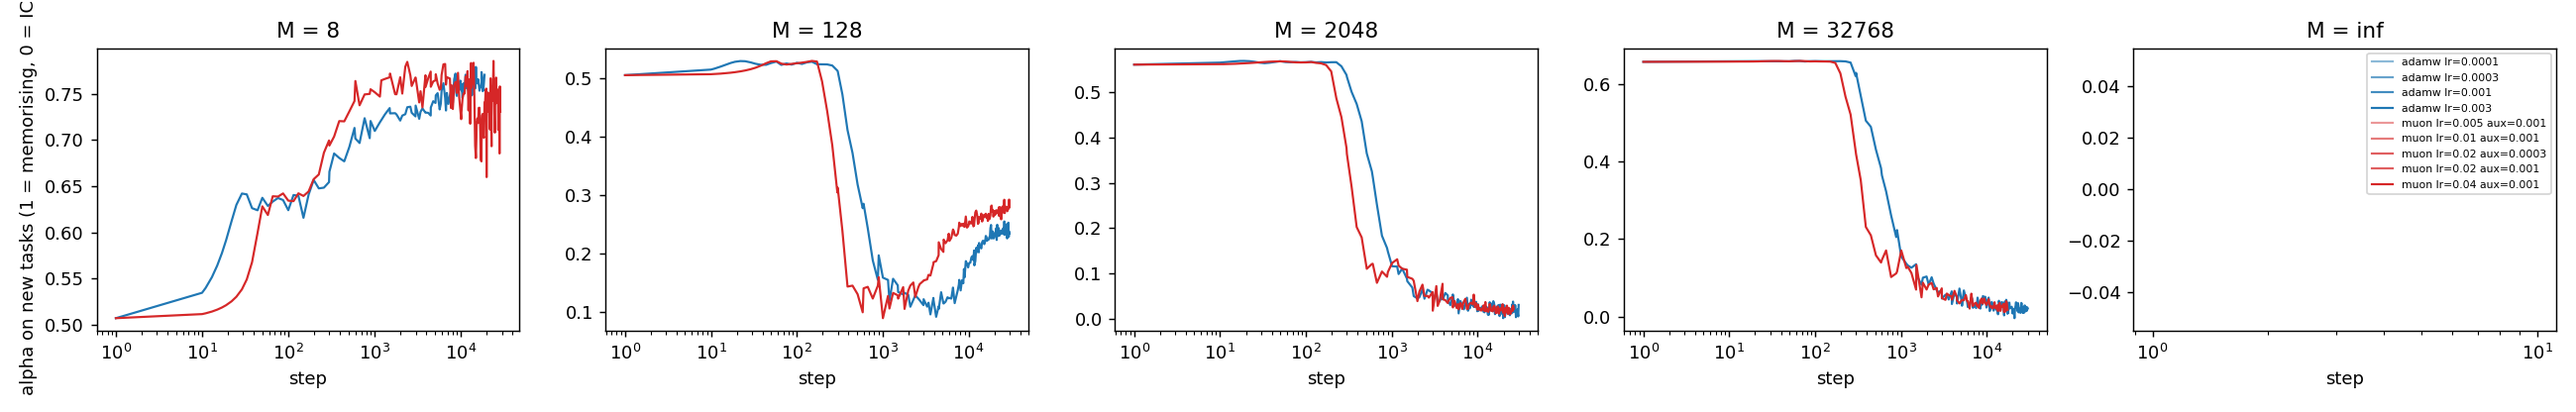
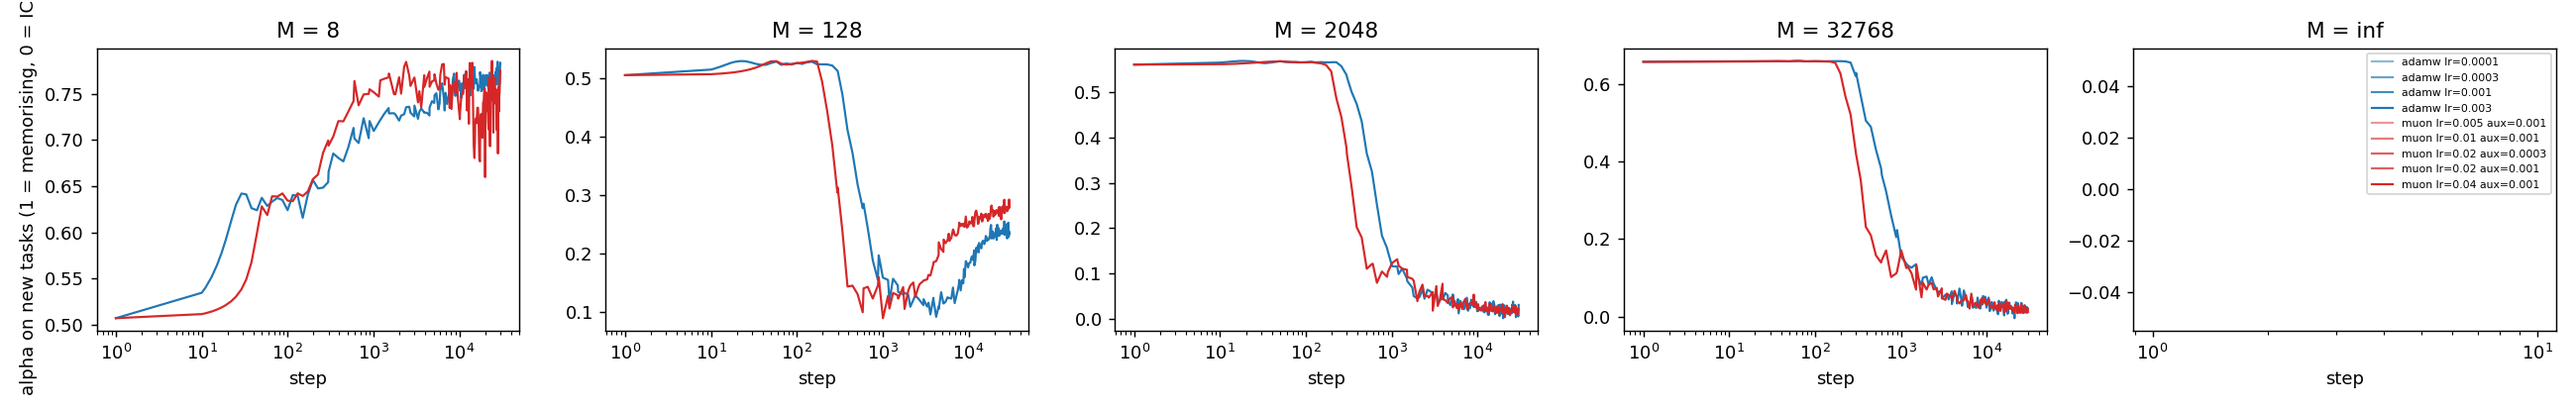
Run 1 results and write-up; Run 2 launched (pool-size sweep, 6 seeds)

diff --git a/analyze.py b/analyze.py
@@ -45,14 +45,22 @@ def onset_step(r):
     return int(s[hit[0]]) if len(hit) else None
 
 
+def fade(r):
+    """Best new-task error over training, the step it happened, and final / best (1.0 = no fading)."""
+    s, y = series(r, "mse_ood_last")
+    i = int(np.argmin(y))
+    return y[i], int(s[i]), float(np.mean(y[-5:]) / y[i])
+
+
 def label(c):
     m = "inf" if c["M"] == 0 else f"2^{int(math.log2(c['M']))}" if c["M"] & (c["M"] - 1) == 0 else str(c["M"])
     return f"{c['opt']} lr={c['lr']:g}" + ("" if c["aux_lr"] == c["lr"] else f" aux={c['aux_lr']:g}") + f" M={m} seed={c['seed']}"
 
 
 def table(runs):
-    hdr = "| run | status | min | new-task err (rel) | pool-task err (rel to dMMSE) | alpha new | alpha pool | ICL onset step |"
-    out = [hdr, "|" + "---|" * 8]
+    hdr = ("| run | status | min | new-task err (rel) | pool-task err (rel to dMMSE) | alpha new | alpha pool "
+           "| ICL onset step | best new-task err @ step | fade (final/best) |")
+    out = [hdr, "|" + "---|" * 10]
     for r in sorted(runs, key=lambda r: (r["cfg"]["M"] or 1 << 40, r["cfg"]["opt"], r["cfg"]["lr"])):
         last, b = r["rows"][-1], r["base"]
         st = "running" if r["done"] is None else r["done"]["status"]
@@ -61,7 +69,8 @@ def table(runs):
         rel_id = last["mse_id_last"] / b["dmmse_id_mse_pos"][-1]
         on = onset_step(r)
         out.append(f"| {label(r['cfg'])} | {st} @{last['step']} | {mins} | {last['mse_ood_last']:.3f} ({rel_ood:.2f}x) | "
-                   f"{last['mse_id_last']:.3f} ({rel_id:.2f}x) | {last['alpha_ood']:.2f} | {last['alpha_id']:.2f} | {on if on is not None else 'never'} |")
+                   f"{last['mse_id_last']:.3f} ({rel_id:.2f}x) | {last['alpha_ood']:.2f} | {last['alpha_id']:.2f} | {on if on is not None else 'never'} | "
+                   f"{fade(r)[0]:.3f} @ {fade(r)[1]} | {fade(r)[2]:.2f} |")
     return "\n".join(out)
 
 

diff --git a/LOG.md b/LOG.md
@@ -20,13 +20,40 @@ How to read the numbers:
 
 | | |
 |---|---|
-| Stage | Run 1 (calibration) running on Shirokane CPU nodes since 2026-11-03 10:20 PT, results expected about 11:45 PT |
-| Known so far | Code runs end to end with all four optimizers (local smoke test, not a result) |
-| Next decision | Learning rates and training length for the main sweep |
+| Stage | Run 2 (main pool-size sweep, 240 runs) running since 2026-11-03 12:33 PT; seeds 0-3 expected about 16:30 PT, seeds 4-5 after |
+| Known so far | Run 1, one seed: both optimizers reach the same quality on new tasks once tuned. At pool size 128 ICL appears and then fades in both, and Muon goes through both phases about 4x sooner. |
+| Next decision | Whether that early-rise, early-fade pattern holds across seeds and learning rates (Run 2) |
 
 ---
 
-## Run 1: calibration (started 2026-11-03 10:20 PT)
+## Run 2: main pool-size sweep (started 2026-11-03 12:33 PT)
+
+**What:** 240 runs of 30,000 steps on Shirokane CPU nodes: pool sizes M = 16, 32, 64, 128, 256,
+512, 1024, 2048, 4096 and inf; 6 seeds; two learning rates per optimizer, AdamW at 1e-4 and 3e-4
+and Muon at 0.005 and 0.01. These are the best two of each from Run 1. The non-matrix
+parameters use AdamW at 3e-4 in every run, so the only thing that changes is how the attention
+and MLP matrices are trained. Seed s gives both optimizers the same pool, starting weights and
+batches, so every comparison is paired.
+
+**What the results will look like:**
+- A curve of alpha (memorising vs regressing) against pool size for each optimizer, with error
+  bars over seeds. The pool size where it crosses 0.5 is M*, the task-diversity threshold.
+- A stats table: for each pool size, the Muon-minus-AdamW difference in new-task error,
+  pool-task error, onset step and fade, with a 95% interval and a paired p-value. The seed is
+  the independent unit, so 6 seeds (4 in the first batch, 2 more queued behind them) give a
+  smallest possible p of 0.031.
+- Mechanism figures: effective rank of each weight change, and how much attention goes to
+  the y values, over training.
+
+**What would count as a finding:** the same sign of difference in every seed at both learning
+rates, for at least one of: M*, onset step, or fade. If Run 1's pattern is real, Muon should
+peak and fade earlier at M = 64 to 256, and the error-vs-M curves should cross.
+
+**Result:** pending.
+
+---
+
+## Run 1: calibration (2026-11-03, 10:20-12:30 PT)
 
 **What:** 17 training runs of 30,000 steps each, seed 0, run side by side on Shirokane CPU nodes
 (every H100 on the cluster was taken; a CPU node does one run in about an hour).
@@ -45,4 +72,47 @@ M = 8 both should memorise (pool-task error near dMMSE, alpha near 1, poor on ne
 M = 32768 both should do ICL. The interesting cells are 128 and 2048. Seed 0 alone cannot show
 a significant difference; this run only sets up the main sweep.
 
-**Result:** pending.
+**Result:** all 17 runs finished. Full table: `reports/run01_table.md`. Figures: `reports/figs/run01/`.
+
+Learning rates, with a fresh task in every prompt (M = inf):
+
+| Optimizer | Learning rate | New-task error at 15 examples (x ridge) | Onset step |
+|---|---|---|---|
+| AdamW | 1e-4 | 0.581 (1.08x) | 880 |
+| AdamW | 3e-4 | 0.591 (1.09x) | 586 |
+| AdamW | 1e-3 | 0.637 (1.18x) | 511 |
+| AdamW | 3e-3 | did not learn | never |
+| Muon | 0.005 | 0.579 (1.07x) | 446 |
+| Muon | 0.01 | 0.580 (1.07x) | 340 |
+| Muon | 0.02 | 0.593 (1.10x) | 297 |
+| Muon | 0.04 | 0.658 (1.22x) | 226 |
+
+Pool-size scan (AdamW 1e-3, Muon 0.02; neither is its best rate):
+
+| M | AdamW new-task error | Muon new-task error | Best new-task error, AdamW / Muon (step) | Fade (final / best), AdamW / Muon |
+|---|---|---|---|---|
+| 8 | 8.77 (memorises; pool error 1.06x dMMSE) | 10.53 (pool error 1.71x dMMSE, unstable) | no ICL | no ICL |
+| 128 | 1.80 | 2.38 | 0.93 (7,200) / 1.01 (1,800) | 1.99 / 2.29 |
+| 2048 | 0.603 | 0.624 | still improving | none |
+| 32768 | 0.604 | 0.603 | still improving | none |
+
+**What it means:**
+1. Tuned, the two optimizers end up equally good at in-context regression: about 1.07x the
+   optimal error after 30,000 steps. So any difference is in *how* they get there and *when*
+   they switch between memorising and regressing, not in what they can eventually reach.
+2. Muon starts doing ICL sooner at every learning rate we can compare. This depends heavily on
+   learning rate, though: AdamW at 1e-3 starts sooner than Muon at 0.005. The fair comparison is
+   between tuned settings, and Run 2 does that across seeds.
+3. **Transient ICL appeared on its own at M = 128.** Both models first learn to regress from the
+   prompt (new-task error drops to about 1.0), then slowly swap that for memorising the 128
+   tasks: new-task error doubles while pool-task error keeps falling. This is the
+   rise-then-fade the proposal asked about (Singh et al. 2023). Muon reached its ICL peak about
+   4x sooner (step 1,800 vs 7,200) and had faded further by the end. That is one seed at
+   untuned learning rates, but if it holds it answers the proposal's question 2.
+4. At M = 8, Muon at 0.02 did not settle: its pool error kept spiking. That learning rate is
+   too high when there are few tasks, which is another reason Run 2 uses lower ones.
+5. With 2,048 or more tasks, both do ICL and look the same at this training length. So the
+   threshold M* is between 128 and 2,048 here. Run 2 fills that range in with powers of two.
+
+**Deviation:** the job ran on CPU nodes instead of the planned H100 because every H100 was busy.
+Every run in a given comparison uses the same hardware.

diff --git a/reports/run01_table.md b/reports/run01_table.md
@@ -1,0 +1,19 @@
+| run | status | min | new-task err (rel) | pool-task err (rel to dMMSE) | alpha new | alpha pool | ICL onset step | best new-task err @ step | fade (final/best) |
+|---|---|---|---|---|---|---|---|---|---|
+| adamw lr=0.001 M=2^3 seed=0 | ok @30000 | 131 | 8.771 (15.88x) | 0.270 (1.06x) | 0.78 | 0.97 | never | 7.528 @ 1515 | 1.10 |
+| muon lr=0.02 aux=0.001 M=2^3 seed=0 | ok @30000 | 90 | 10.533 (19.07x) | 0.437 (1.71x) | 0.78 | 0.91 | never | 7.901 @ 600 | 1.35 |
+| adamw lr=0.001 M=2^7 seed=0 | ok @30000 | 61 | 1.798 (3.26x) | 0.376 (1.48x) | 0.23 | 0.44 | 446 | 0.925 @ 7200 | 1.99 |
+| muon lr=0.02 aux=0.001 M=2^7 seed=0 | ok @30000 | 66 | 2.381 (4.31x) | 0.334 (1.31x) | 0.28 | 0.48 | 297 | 1.012 @ 1800 | 2.29 |
+| adamw lr=0.001 M=2^11 seed=0 | ok @30000 | 57 | 0.603 (1.09x) | 0.634 (2.49x) | 0.03 | 0.01 | 511 | 0.589 @ 29100 | 1.02 |
+| muon lr=0.02 aux=0.001 M=2^11 seed=0 | ok @30000 | 101 | 0.624 (1.13x) | 0.641 (2.51x) | 0.02 | 0.01 | 297 | 0.609 @ 23400 | 1.02 |
+| adamw lr=0.001 M=2^15 seed=0 | ok @30000 | 61 | 0.604 (1.09x) | 0.622 (2.34x) | 0.02 | -0.00 | 446 | 0.588 @ 19800 | 1.01 |
+| muon lr=0.02 aux=0.001 M=2^15 seed=0 | ok @30000 | 140 | 0.603 (1.09x) | 0.622 (2.34x) | 0.01 | 0.00 | 297 | 0.599 @ 29100 | 1.02 |
+| adamw lr=0.0001 M=inf seed=0 | ok @30000 | 58 | 0.581 (1.08x) | 0.576 (1.10x) | nan | nan | 880 | 0.574 @ 23700 | 1.02 |
+| adamw lr=0.0003 M=inf seed=0 | ok @30000 | 56 | 0.591 (1.09x) | 0.566 (1.08x) | nan | nan | 586 | 0.582 @ 28200 | 1.02 |
+| adamw lr=0.001 M=inf seed=0 | ok @30000 | 125 | 0.637 (1.18x) | 0.644 (1.23x) | nan | nan | 511 | 0.624 @ 29100 | 1.02 |
+| adamw lr=0.003 M=inf seed=0 | ok @30000 | 96 | 7.799 (14.43x) | 8.176 (15.56x) | nan | nan | never | 7.710 @ 600 | 1.01 |
+| muon lr=0.005 aux=0.001 M=inf seed=0 | ok @30000 | 64 | 0.579 (1.07x) | 0.559 (1.06x) | nan | nan | 446 | 0.563 @ 23700 | 1.03 |
+| muon lr=0.01 aux=0.001 M=inf seed=0 | ok @30000 | 100 | 0.580 (1.07x) | 0.566 (1.08x) | nan | nan | 340 | 0.568 @ 23700 | 1.03 |
+| muon lr=0.02 aux=0.0003 M=inf seed=0 | ok @30000 | 107 | 0.630 (1.17x) | 0.608 (1.16x) | nan | nan | 297 | 0.608 @ 26400 | 1.04 |
+| muon lr=0.02 aux=0.001 M=inf seed=0 | ok @30000 | 104 | 0.593 (1.10x) | 0.589 (1.12x) | nan | nan | 297 | 0.586 @ 23400 | 1.02 |
+| muon lr=0.04 aux=0.001 M=inf seed=0 | ok @30000 | 108 | 0.658 (1.22x) | 0.639 (1.22x) | nan | nan | 226 | 0.635 @ 29700 | 1.07 |
